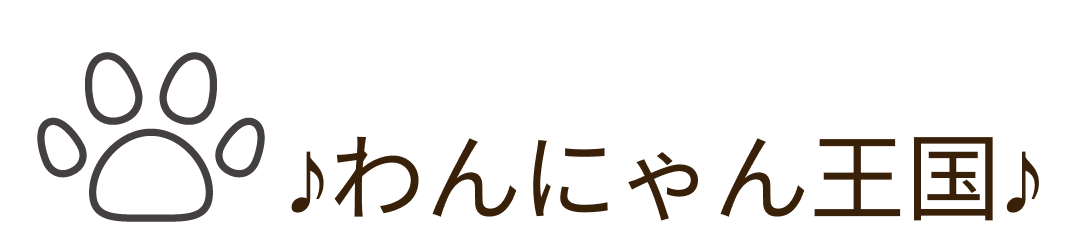
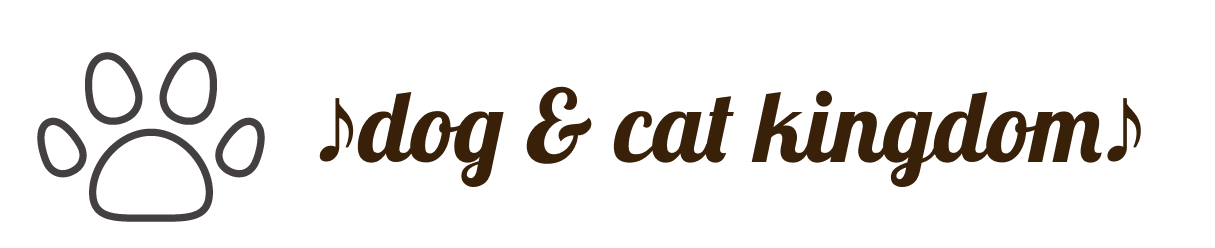
修正

Changed region(s): [[0.0312, 0.1976, 0.9688, 0.9032]]

diff --git a/index.html b/index.html
@@ -17,6 +17,10 @@
         <link rel="apple-touch-icon" sizes="180×180" href="img/logo.png">
         <link rel="stylesheet" type="text/css" href="css/reset.css">
         <link rel="stylesheet" type="text/css" href="css/common.css">
+        <link rel="preconnect" href="https://fonts.gstatic.com">
+        <link href="https://fonts.googleapis.com/css2?family=Hachi+Maru+Pop&display=swap" rel="stylesheet">
+        <link rel="preconnect" href="https://fonts.gstatic.com">
+        <link href="https://fonts.googleapis.com/css2?family=Hachi+Maru+Pop&family=M+PLUS+Rounded+1c&display=swap" rel="stylesheet">        
     </head>
     　　
     <body>
@@ -77,7 +81,7 @@
 
               <section class="intro section" id="intro">
                 <div class="inner">
-                  <h3 class="font3">アプリ紹介<small>Introduction</small></h3>
+                  <h3 class="font3">わんちゃん＆ねこちゃん紹介<small>Introduction</small></h3>
                   <div class="app_all">
                     <div class="app">
                       <div class="app_wrap">
@@ -101,7 +105,7 @@
                       <div class="app_wrap">
                         <div class="app_item">
                           <h4 class="font4">とっても可愛い<br>お散歩機能</h4>
-                          <h5 class="font5"><strong>現実で一緒にお散歩しているように♪</strong><br>GPS機能を利用して本格的なお散歩を実現しています！</h5>
+                          <h5 class="font5"><strong>現実で一緒にお散歩しているように♪</strong><br>GPS機能を利用し本格的なお散歩を実現しています！</h5>
                           <p class="descript">
                             お散歩機能では、GPSを利用して本格的なお散歩を行う事ができます♪
                             一緒にお散歩する事でわんちゃんは特に懐いてくれるようになりまので、積極的にお散歩に連れていきましょう♪
@@ -117,8 +121,8 @@
                     <div class="app">
                       <div class="app_wrap">
                         <div class="app_item">
-                          <h4 class="font4">いつでもどこでも一緒<br>離れる寂しさがなくなります♪</h4>
-                          <h5 class="font5"><strong>アプリならで</strong><br>ずっと一緒にいる事ができます♪</h5>
+                          <h4 class="font4">いつでもどこでも一緒<br>寂しさがなくなります♪</h4>
+                          <h5 class="font5"><strong>アプリならでは</strong><br>ずっと一緒にいる事ができます♪</h5>
                           <p class="descript">
                             現実ではどうしても一緒にいれない時もスマホがあればずっと一緒にいる事ができます♪
                             ペットが飼えない環境の人にもこのアプリを使用する事で、まるでペットを飼っているかのうような
@@ -134,17 +138,16 @@
                     <div class="app">
                       <div class="app_wrap">
                         <div class="app_item">
-                          <h4 class="font4">多種多様な<br>プログラミング言語</h4>
-                          <h5 class="font5"><strong>Web/iOS/Android/AI</strong><br>など、大部分のプログラミング言語をカバー</h5>
+                          <h4 class="font4">しつけ＆餌やり<br>仕草がとても可愛いんです♪</h4>
+                          <h5 class="font5"><strong>しつけ成功させて</strong><br>可愛い仕草を覚えてもらいましょう♪</h5>
                           <p class="descript">
-                            WithCode+ Mobileでは、IT業界で主流であるJavaScript / Ruby / PHPなどのWeb開発言語に加えて、
-                            Swift / JavaなどのiOSやAndroidのモバイル開発、近年需要が急上昇しているPython、
-                            シリコンバレーで多用されているGoなどの大部分のプログラミング言語を学習することができます。
-                            プログラミング学習を始めたい方の第一歩として、WithCode+ Mobileは大活躍すること間違いないです。
-                          </p>
+                            わんにゃん王国では餌を食べる仕草がとても可愛いんです♪
+                            しつけを成功させる事で、今まで見れなかった仕草、動きを見る事ができます！
+                            その動きがとても可愛いので、ぜひとも見てみて下さいね♪
+                        　</p>
                         </div>
                         <div class="app_img">
-                          <img src="img/cat2.png" alt="アプリ紹介1">
+                          <img src="img/cat2.png" alt="猫2">
                         </div>
                       </div>
                     </div>
@@ -196,17 +199,17 @@
                   <div class="txt">
                     <ul>
                       <li>利用料金はかかりますか？</li>
-                      <p><strong>Q. </strong>無料コースに関するご利用に関しては無料ですが、有料コースのご利用には有料となってます。</p>
-                      <li>利用料金はかかりますか？</li>
-                      <p><strong>Q. </strong>無料コースに関するご利用に関しては無料ですが、有料コースのご利用には有料となってます。</p>
-                      <li>利用料金はかかりますか？</li>
-                      <p><strong>Q. </strong>無料コースに関するご利用に関しては無料ですが、有料コースのご利用には有料となってます。</p>
-                      <li>利用料金はかかりますか？</li>
-                      <p><strong>Q. </strong>無料コースに関するご利用に関しては無料ですが、有料コースのご利用には有料となってます。</p>
-                      <li>利用料金はかかりますか？</li>
-                      <p><strong>Q. </strong>無料コースに関するご利用に関しては無料ですが、有料コースのご利用には有料となってます。</p>
-                      <li>利用料金はかかりますか？</li>
-                      <p><strong>Q. </strong>無料コースに関するご利用に関しては無料ですが、有料コースのご利用には有料となってます。</p>
+                      <p><strong>Q. </strong>基本的に無料でお使い頂く事が出来ますが、有料コンテンツもございます</p><br>
+                      <li>ペットは選べるんですか？</li>
+                      <p><strong>Q. </strong>はい、選ぶことが出来ます。１番可愛いと思う子を選んでくださいませ</p><br>
+                      <li>犬、猫以外も選べるんですか？</li>
+                      <p><strong>Q. </strong>いえ、わんちゃんとねこちゃんから選んで頂くようになります</p><br>
+                      <li>どういった事に金額がかかるのでしょうか？</li>
+                      <p><strong>Q. </strong>有料コンテンツにより選べるペットが増えたり、仕草が増えたりいたします</p><br>
+                      <li>休会する事は可能ですか？</li>
+                      <p><strong>Q. </strong>はい、可能です。その場合はお問い合わせからお願い致します</p><br>
+                      <li>退会手続きをするにはどうしたらいいのですか？</li>
+                      <p><strong>Q. </strong>お問い合わせより手続きを進めてくださいませ</p>
                     </ul>
                   </div>
                 </div>
@@ -218,16 +221,16 @@
                   <h3 class="font3">お知らせ<small>news</small></h3>
                   <div class="txt">
                     <ul>
-                      <li><strong>2021.2.1</strong> プレスリリース</li>
+                      <li><strong>2021.5.1 <br>有料コンテンツ追加</strong></li>
+                      <li>有料会員のみの猫ちゃんが5種類追加となりました♪</li><br>
+                      <li><strong>2021.4.1 <br>有料コンテンツ追加</strong></li>
+                      <li>有料会員のみのわんちゃんが5種類追加となりました♪</li><br>
+                      <li><strong>2021.3.1 <br>ペット種類追加</strong></li>
+                      <li>可愛いねこちゃんが10種類追加となりました♪</li><br>
+                      <li><strong>2021.2.10 <br>ペット種類追加</strong></li>
+                      <li>可愛いわんちゃんが10種類追加となりました♪</li><br>
+                      <li><strong>2021.2.1 <br>プレスリリース</strong></li>
                       <li>アプリをリリース</li>
-                      <li><strong>????.??.??</strong> プレスリリース</li>
-                      <li>Coming Soon</li>
-                      <li><strong>????.??.??</strong> ????</li>
-                      <li>Coming Soon</li>
-                      <li><strong>????.??.??</strong> ????</li>
-                      <li>Coming Soon</li>
-                      <li><strong>????.??.??</strong> ????</li>
-                      <li>Coming Soon</li>
                     </ul>
                   </div>
                 </div>
@@ -265,9 +268,10 @@
                       </div>
                 </div>
             </div>
-            <p class="mail">mail : withcode.official@gmail.com</p>
+            <p class="mail">mail : wan-nyan-kingdom@gmail.com</p>
             <p class="copyright">© 2021 wan-nyan-kingdom Rights Reserved</p>
           </footer>
-        <script src="https://cdnjs.cloudflare.com/ajax/libs/jquery/3.4.1/jquery.min.js"></script>
+          <script src="https://cdnjs.cloudflare.com/ajax/libs/jquery/3.4.1/jquery.min.js"></script>
+          <script src="js/common.js"></script>
     </body>
 </html>

diff --git a/css/common.css b/css/common.css
@@ -6,6 +6,7 @@ body {
     letter-spacing: 1px;
     word-break: break-all;
     color: #888;
+    font-family: 'M PLUS Rounded 1c', sans-serif;
   }
   a {
     text-decoration: none;
@@ -24,6 +25,7 @@ body {
   header .logo {
     position: absolute;
     padding: 10px 0 0 20px;
+    margin-top: 10px;
   }
   
   header .logo img {
@@ -99,6 +101,7 @@ body {
     font-weight: bold;
     margin-bottom: 15px;
     padding-left: 30px;
+    font-family: 'Hachi Maru Pop', cursive;
   }
   
   .font1 small {
@@ -162,6 +165,7 @@ body {
     font-weight: bold;
     line-height: 1.3;
     margin-bottom: 10px;
+    
   }
   
   .font2::after {
@@ -184,7 +188,7 @@ body {
     display: block;
     width: 100%;
     height: 600px;
-    background: linear-gradient(#382009, #f5f6f7);
+    background: linear-gradient(#f5deb3, #f5f6f7);
     position: absolute;
     top: 0;
     left: 0;
@@ -202,7 +206,7 @@ body {
 
   .font3 {
     font-size: 45px;
-    color: #fff;
+    color: #382009;
     text-align: center;
     padding-bottom: 50px;
     line-height: 1.5;
@@ -216,7 +220,7 @@ body {
   .app {
     background: linear-gradient(#fff, #f5f6f7);
     border-radius: 30px;
-    padding: 100px 20px;
+    padding: 30px 20px;
     width: 85%;
     margin: 0 auto;
   }
@@ -254,6 +258,7 @@ body {
 
   .app .app_img {
     display: inline-block;
+    padding-top: 100px;
   }
   
   .app .app_img img {
@@ -368,7 +373,7 @@ body {
   }
   
   .news .txt ul li strong {
-    color: #75a9ff;
+    color: #382009;
   }
 
   .contact_btn {
@@ -397,10 +402,12 @@ body {
 
   .footer_logo1 img {
     width: 200px;
+    margin-bottom: 5px;
   }
   
   .footer_logo2 img {
     width: 50px;
+    margin-left: 20px;
   }
 
   .pages {
@@ -554,7 +561,7 @@ body {
 
   @media screen and (max-width: 480px) {
     header a.logo img {
-        width: 110px;
+        width: 190px;
       }
 
       header .drawer {
@@ -563,6 +570,7 @@ body {
 
       .font1 p {
         font-size: 32px;
+        padding: unset;
       }
       .font1 small {
         font-size: 18px;
@@ -580,10 +588,16 @@ body {
 
       .feature .inner {
         padding: 0;
+      
+      }
+
+      .inner h3 {
+          font-size: 24px;
       }
 
       .font2 {
         font-size: 20px;
+        text-align: center;
       }
       
       .font2:after {
@@ -599,8 +613,14 @@ body {
         width: 78%;
       }
 
+      .font4 {
+          font-size: 24px;
+          text-align: center;
+      }
+
       .font5 {
-        font-size: 20px;
+        font-size: 16px;
+        text-align: center;
       }
 
       .app .descript {
@@ -610,6 +630,7 @@ body {
       .app .app_img {
         width: 90%;
         margin: 0 auto;
+        padding-top: 10px;
       }
 
       .how_to {
@@ -635,6 +656,7 @@ body {
         margin: 0 70px;
       }
 
+    
       .news .txt {
         padding: 50px 30px;
       }
@@ -709,8 +731,8 @@ body {
 
       .faq .more {
         text-align: center;
-        background: #888;
-        width: 25%;
+        background: #382009;
+        width: 40%;
         margin: 0 auto;
         padding: 10px 20px;
         border-radius: 10px;
@@ -726,8 +748,8 @@ body {
 
       .contact_btn .btn {
         text-align: center;
-        background: #ff82b2;
-        width: 25%;
+        background: #382009;
+        width: 40%;
         margin: 0 auto;
         padding: 10px 20px;
         border-radius: 10px;
